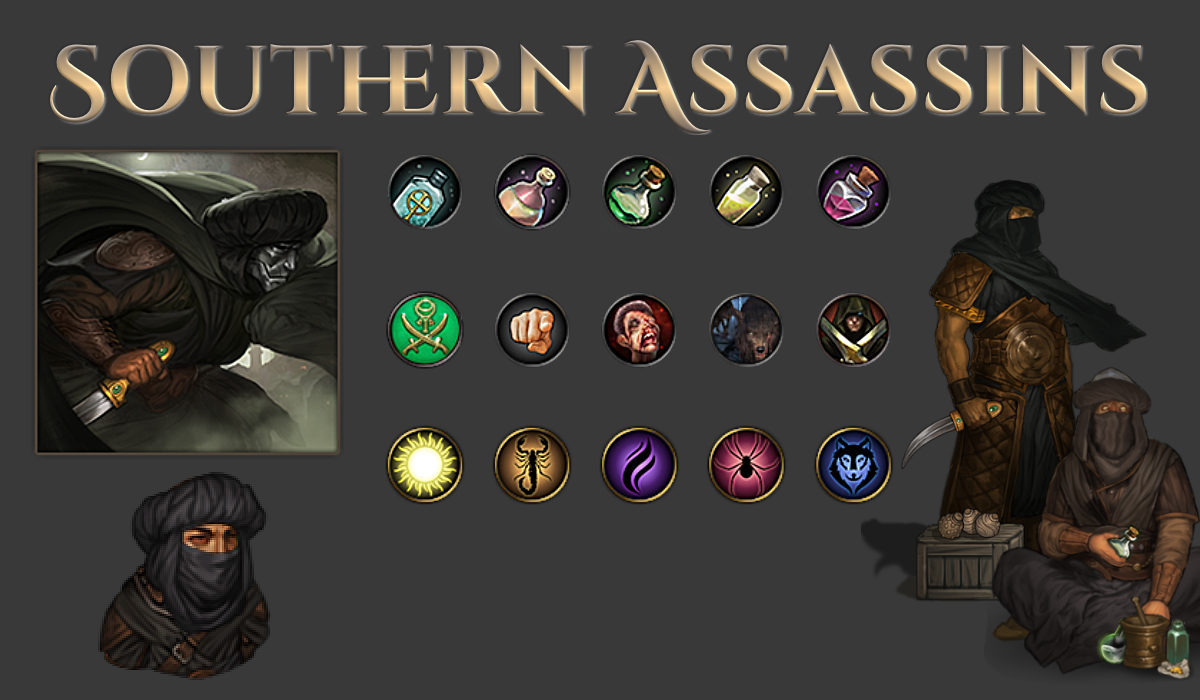
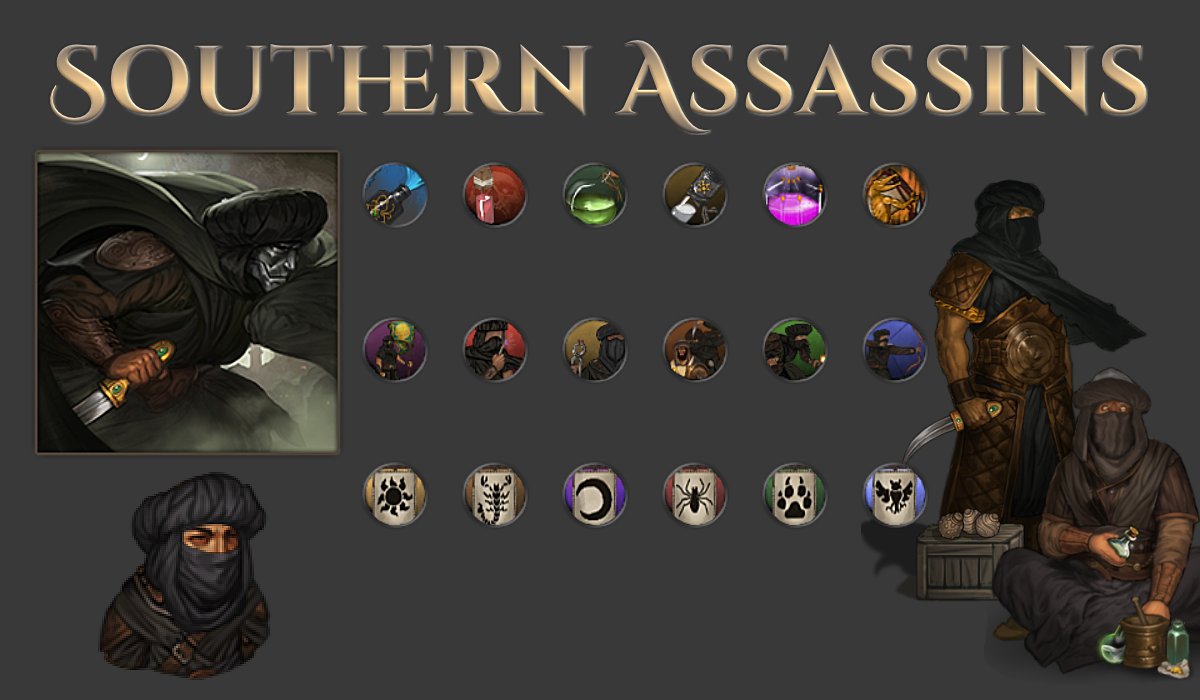
Update README for v4

Changed region(s): [[0.2775, 0.6, 0.7708, 0.75], [0.3083, 0.42, 0.7708, 0.54], [0.3083, 0.21, 0.7708, 0.33]]

diff --git a/mod_background.md b/mod_background.md
@@ -44,6 +44,12 @@ I've gotten some feedback that the Assassin abilities are not powerful enough to
 
 As for ordering, poisons are the first unlock because they often have the biggest effect on what weapon a bro should wield. This can be the most important choice for a build so it needs come early and players need space to react and plan accordingly. The specialties *can* impact weapon choice, so they push off picking a mastery by another level. In practice most players don't actually take weapon mastery perks until late in the build anyway, so this doesn't do a ton to interfere with a bro's overall power progression. Philosophies need to come at level 8 because Nimble & Battleforged are too important and forcing players to get another level before picking them is extremely impactful. The philosophies themselves are less build defining and more just offer conditional power on top of what's already there. Players have a couple perk choices after to swerve if they need to, though.
 
+**Addendum for v4.x**
+
+In v4 of the mod, assassins got two big changes - bros get an additional perk point at level 11, and once they reach level 8 and get all the assassin perks they can respec to a different combat specialty (the level 5 perk). The former change allows for a bit more reactivity in builds - if you got a philosophy that really implies a perk, you don't need to leave the existing build you had unfinished to take it - and perk points are tight enough that I think players still have to make tough choices.
+
+The latter change, respeccing, is largely there to expand the design space of combat specialties. Prior to this, making specialties that affected ranged attacks was extremely difficult, because turning a melee build into a ranged (or even hybrid build) is so hard. With respeccing in the mix, there's a bit more freedom to add specialties that may not be readily capitalized on for a few levels if the player wants to stick with their current weapon set. Since they'll be playing with a much less useful perk from levels 5 to 8, this balances out some of the eventual power creep.
+
 ### The Oathtakers
 
 The OFF+ Oathtakers aren't there to "fix" anything, per se, but the vanilla implementation of the origin makes for an extremely limiting design space. I'll try to hit the biggest points and leave it at those for now.

diff --git a/mechanics_abilities_effects_spoilers.md b/mechanics_abilities_effects_spoilers.md
@@ -156,13 +156,23 @@ Does not stack
 
 **Gilder's Gaze**
 
-Reduces Vision by 5 and damage by 20% for 2 turns
+Reduces damage by 20% for the rest of combat
+
+Applies the 'Nighttime' effect (if applicable) for the rest of combat
 
 Does not stack
 
 **Violet Paralytic**
 
 Reduces Action Points by 2 for 1 turn
+
+Can stack
+
+**Dragon Spit**
+
+Sets the target's tile on fire, as with the Firelance or Fire Bomb items
+
+Also applies if the target is bleeding
 
 Can stack
 
@@ -180,17 +190,15 @@ Specialties are gain at random upon reaching level 5.
 
 +5 Melee Defense and Ranged Defense if there are no allies in adjacent tiles
 
-**Challenger**
+**Incubator**
 
-+8 Resolve and Initiative if outnumbered by the enemy
-
-+4 Melee Skill, Ranged Skill, Melee Defense, and Ranged Defense if outnumbered by the enemy
+Poison is applied on any direct hit (i.e. not non-damaging skills like Repel or Split Shield), regardless of hitpoint damage inflicted
 
 **Torturer**
 
-The threshold to inflict injuries is lowered by 25% against targets who are injured or under the effects of poison
+The threshold to inflict injuries is lowered by 25% against targets who are injured, under the effects of poison, or are standing on tiles with harmful effects like miasma or fire
 
-+10% chance to hit targets who are injured or under the effects of poison
++10% chance to hit targets who are injured, under the effects of poison, or are standing on tiles with harmful effects like miasma or fire
 
 **Predator**
 
@@ -201,6 +209,12 @@ The threshold to inflict injuries is lowered by 25% against targets who are inju
 **Ambidextrous**
 
 Consumables such as nets cost 3 Action Points to use and build up 50% less Fatigue
+
+**Sniper**
+
++30% damage against targets 5 or more tiles away, or +10% damage against targets 2 or more tiles away
+
+-100% chance to inflict friendly fire
 
 </details>
 
@@ -219,6 +233,14 @@ No morale check triggered upon losing hitpoints
 No morale check triggered upon allies fleeing
 
 No morale check triggered upon allies dying
+
+**Way of the Owl**
+
++15% armor penetration on attacks made wtih 85% or greater chance to hit
+
+25% damage reduction against attacks made with 75% or greater chance to hit
+
++1 Vision
 
 **Way of the Scorpion**
 

diff --git a/README.md b/README.md
@@ -50,7 +50,7 @@ Do not think to cheat death under Old Ironhand's auspices, however - any Rune Ch
 
 The Southern Assassins are part cold-blooded killer, part Crownling. Seeking out a heretic too powerful for the guilds to touch, they take on contracts as any other sellsword might, but their esoteric training quickly comes through in battle.
 
-At levels 2, 5, and 8, each member of the company gains a random assassin speciality instead of a perk point. These can range from powerful poisons that are inflicted with every blow to whole schools of thought that change how an individual assassin approaches the battlefield.
+At levels 2, 5, and 8, each member of the company gains a random assassin speciality instead of a perk point. These can range from powerful poisons that are inflicted with every blow to whole schools of thought that change how an individual assassin approaches the battlefield. An additional perk point is granted at level 11, allowing for some additional build reactivity to the specialties learned.
 
 Providing this training to mercenaries of less exotic backgrounds are two master assassins. They permanently occupy two slots of the company retinue from the outset, limiting options for other camp followers.
 
@@ -140,3 +140,15 @@ Versions prior to v2.0 should be safe to remove at any time, provided that only 
 - Doubt
 - Orange
 - A5G Reaper
+
+### v3.x
+- Sato
+
+### v4.x
+
+**Design, Programming, Artwork, Writing**
+- Sato
+
+**Principal Playtesting**
+- Ranger
+- Nanashi
